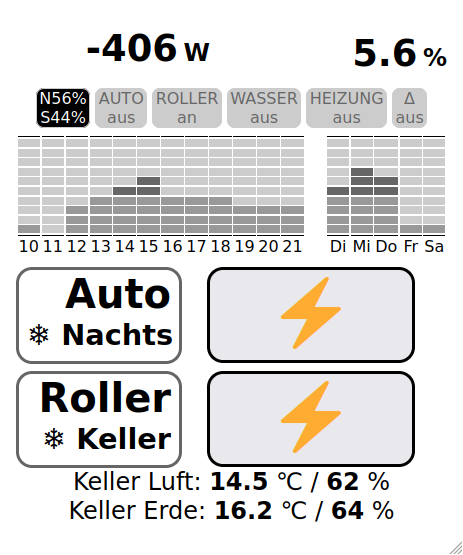
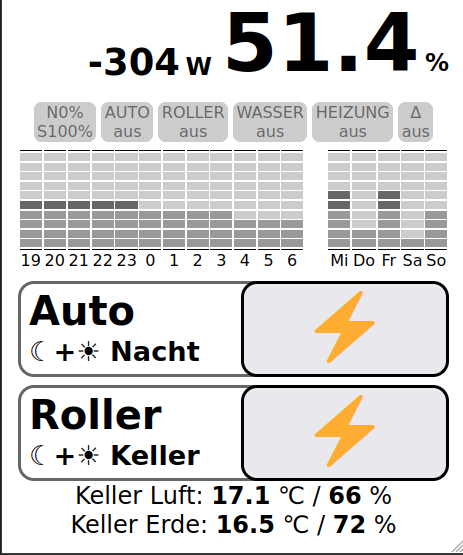
Doku und Screenshot korrigiert

diff --git a/README.md b/README.md
@@ -11,16 +11,20 @@ Konkret:
     - Laden von Auto und Roller
     - einmaliges, morgendliches (4 Uhr UTC) Leeren der Puffer-Batterie auf 25% in Auto und Roller, da beides potentiell tagsüber nicht da ist
 - Bei potentieller Einspeisung: frühzeitiges Überladen der Warmwasser- und Heizungsanlage
-- Bei akkuter Einspeisung: aktivieren eines weiteren (Groß-)Verbrauchers
+- Bei akuter Einspeisung: aktivieren eines weiteren (Groß-)Verbrauchers
   - der muss Schaltzeiten von ~5min ertragen können
-
+ 
 Zusätzliche Features:
-- Winter-Ladeverhalten fürs Auto: wenn aktiviert, lädt das Auto immer Nachts zwischen 20 Uhr und 5 Uhr früh (19 - 4 Uhr UTC!).
-- Winter-Standort des Rollers: wenn aktiviert, wird die Keller-Steckdose genutzt, an der beide Akkus parallel geladen werden
-- Lastschutz: Grundsätzlich wird kein hier gesteuerter Verbraucher aktiviert, wenn...
-  - incl. der dann zusätzlich verbrauchten Leistung der Netzbezug 4kW überschreitet
-  - incl. der dann zusätzlich verbrauchten Leistung der Wechselrichter mehr als 7kW Leistung bereitstellen müsste
-  - Ausnahme: "Force"-Laden startet immer und ignoriert die Lastgrenzen.
+- Winter-Ladeverhalten für Auto und Roller
+  - wenn aktiviert, lädt das Auto immer Nachts zwischen 20 Uhr und 5 Uhr früh (19 - 4 Uhr UTC!)
+- Winter-Standort des Rollers
+  - wenn aktiviert, wird die Keller-Steckdose genutzt, an der beide Akkus parallel geladen werden. Sonst die Außendose.
+- Last sofort wird abgeworfen um...
+  - nur maximal 4kW aus dem Netz zu ziehen
+  - den Wechselrichter nicht über 80% seiner Leistung zu betreiben
+  - wenn Ersatzstrom aktiv und kein Überschuss vorhanden ist
+- Bei Ersatzstrom ist nur Überschussladen möglich
+  - dann wird der Akku-Zielladestand auf 120% gesetzt, so dass nur bei akutem Überschuss geladen wird
 
 ## Steuerungs-UI (optional)
 
@@ -39,12 +43,14 @@ Zusätzliche Features:
   - schwarze Balken bedeuten in beiden Fällen, das potentiell zu viel Energie vorhanden sein wird (passt nicht mehr in Pufferakku = Netzeinspeisung)
   - Die Balken sind via Fibonacci-Folge gestaffelt. Helle Balken, ganz unten, stellen bis 20% Akkustand dar, die etwas dunkleren bis 100%.
 - Unterer Bereich: Schalter der Ladesteuerung
+  - 5x (langsames) tippen auf "Auto" schaltet das Nachtladen für Auto und Roller um
+    - Ist Sonne und mond zu sehen = Nachtladen
+    - Ist nur die Sonne zu sehen = Überschussladen 
   - 5x (langsames) tippen auf "Roller" schaltet die Ladeleistung um
-    - die zweite, externe Ladedose wird aktiviert und diese wird genutzt (beide Akkus im Roller mit einem Lader)
-    - die "normale" dient dann nur als Fallback 
-  - Klick auf Button &#9889; (Blitz) = Egal was ist kommt, es wird geladen
-    - Ist der Button schwarz, ist erzwungenes Laden aktiv bis kein Strom mehr abgenommen wird. Dann schaltet er automatisch zurück auf Überschussladen.
-    - Ansonsten ist Überschussladen aktiv und der Pufferakku-Zielwert von 80% bis zum Sonnenuntergang wird angestrebt
+    - "Keller": beide Akkus ja an einem Ladegerät an der Kellerdose
+    - "Außen": beide Akkus im Roller mit nur einem Ladegerät
+  - Tippen auf Button &#9889; (Blitz)
+    - Ist der Button schwarz, ist erzwungenes Laden für 12 Stunden aktiv und fällt anschließend zurück auf Überschussladen.
 
 ## Systembestandteile:
 - ein ESP8266-E12 als Zentrale
@@ -123,8 +129,3 @@ die Geräte nicht.
 -- Solarstrahlungs-Umrechnung umstellen, dass jeden Monat ein anderer Wert genutzt werden kann. Die Werte Schwanken über das Jahr.
 -- Grundverbrauch in Tag und Nacht trennen (und Ladevorgänge herausrechnen) um bessere Vorhersagen zu haben
 - Akku-Haltbarkeit: Laden zwischen 20-80% ist weniger schlimm, 40-60 am wenigsten. Diese Bereiche zusätzlich mit angeben (x% 20-80%, x% 40-60%) 
-
-- Force -> so ändern, dass es wie der Wintermodus, aber ohne Zeitbeschränkung funktioniert
--- Screenshot aktualisieren
--- Doku auch
-  - Force = x Stunden ist das Laden auf Winter-ohne-Zeitlimit gestellt. Kein "Laden ist beendet" - das ist zu kompliziert ohne nutzen
